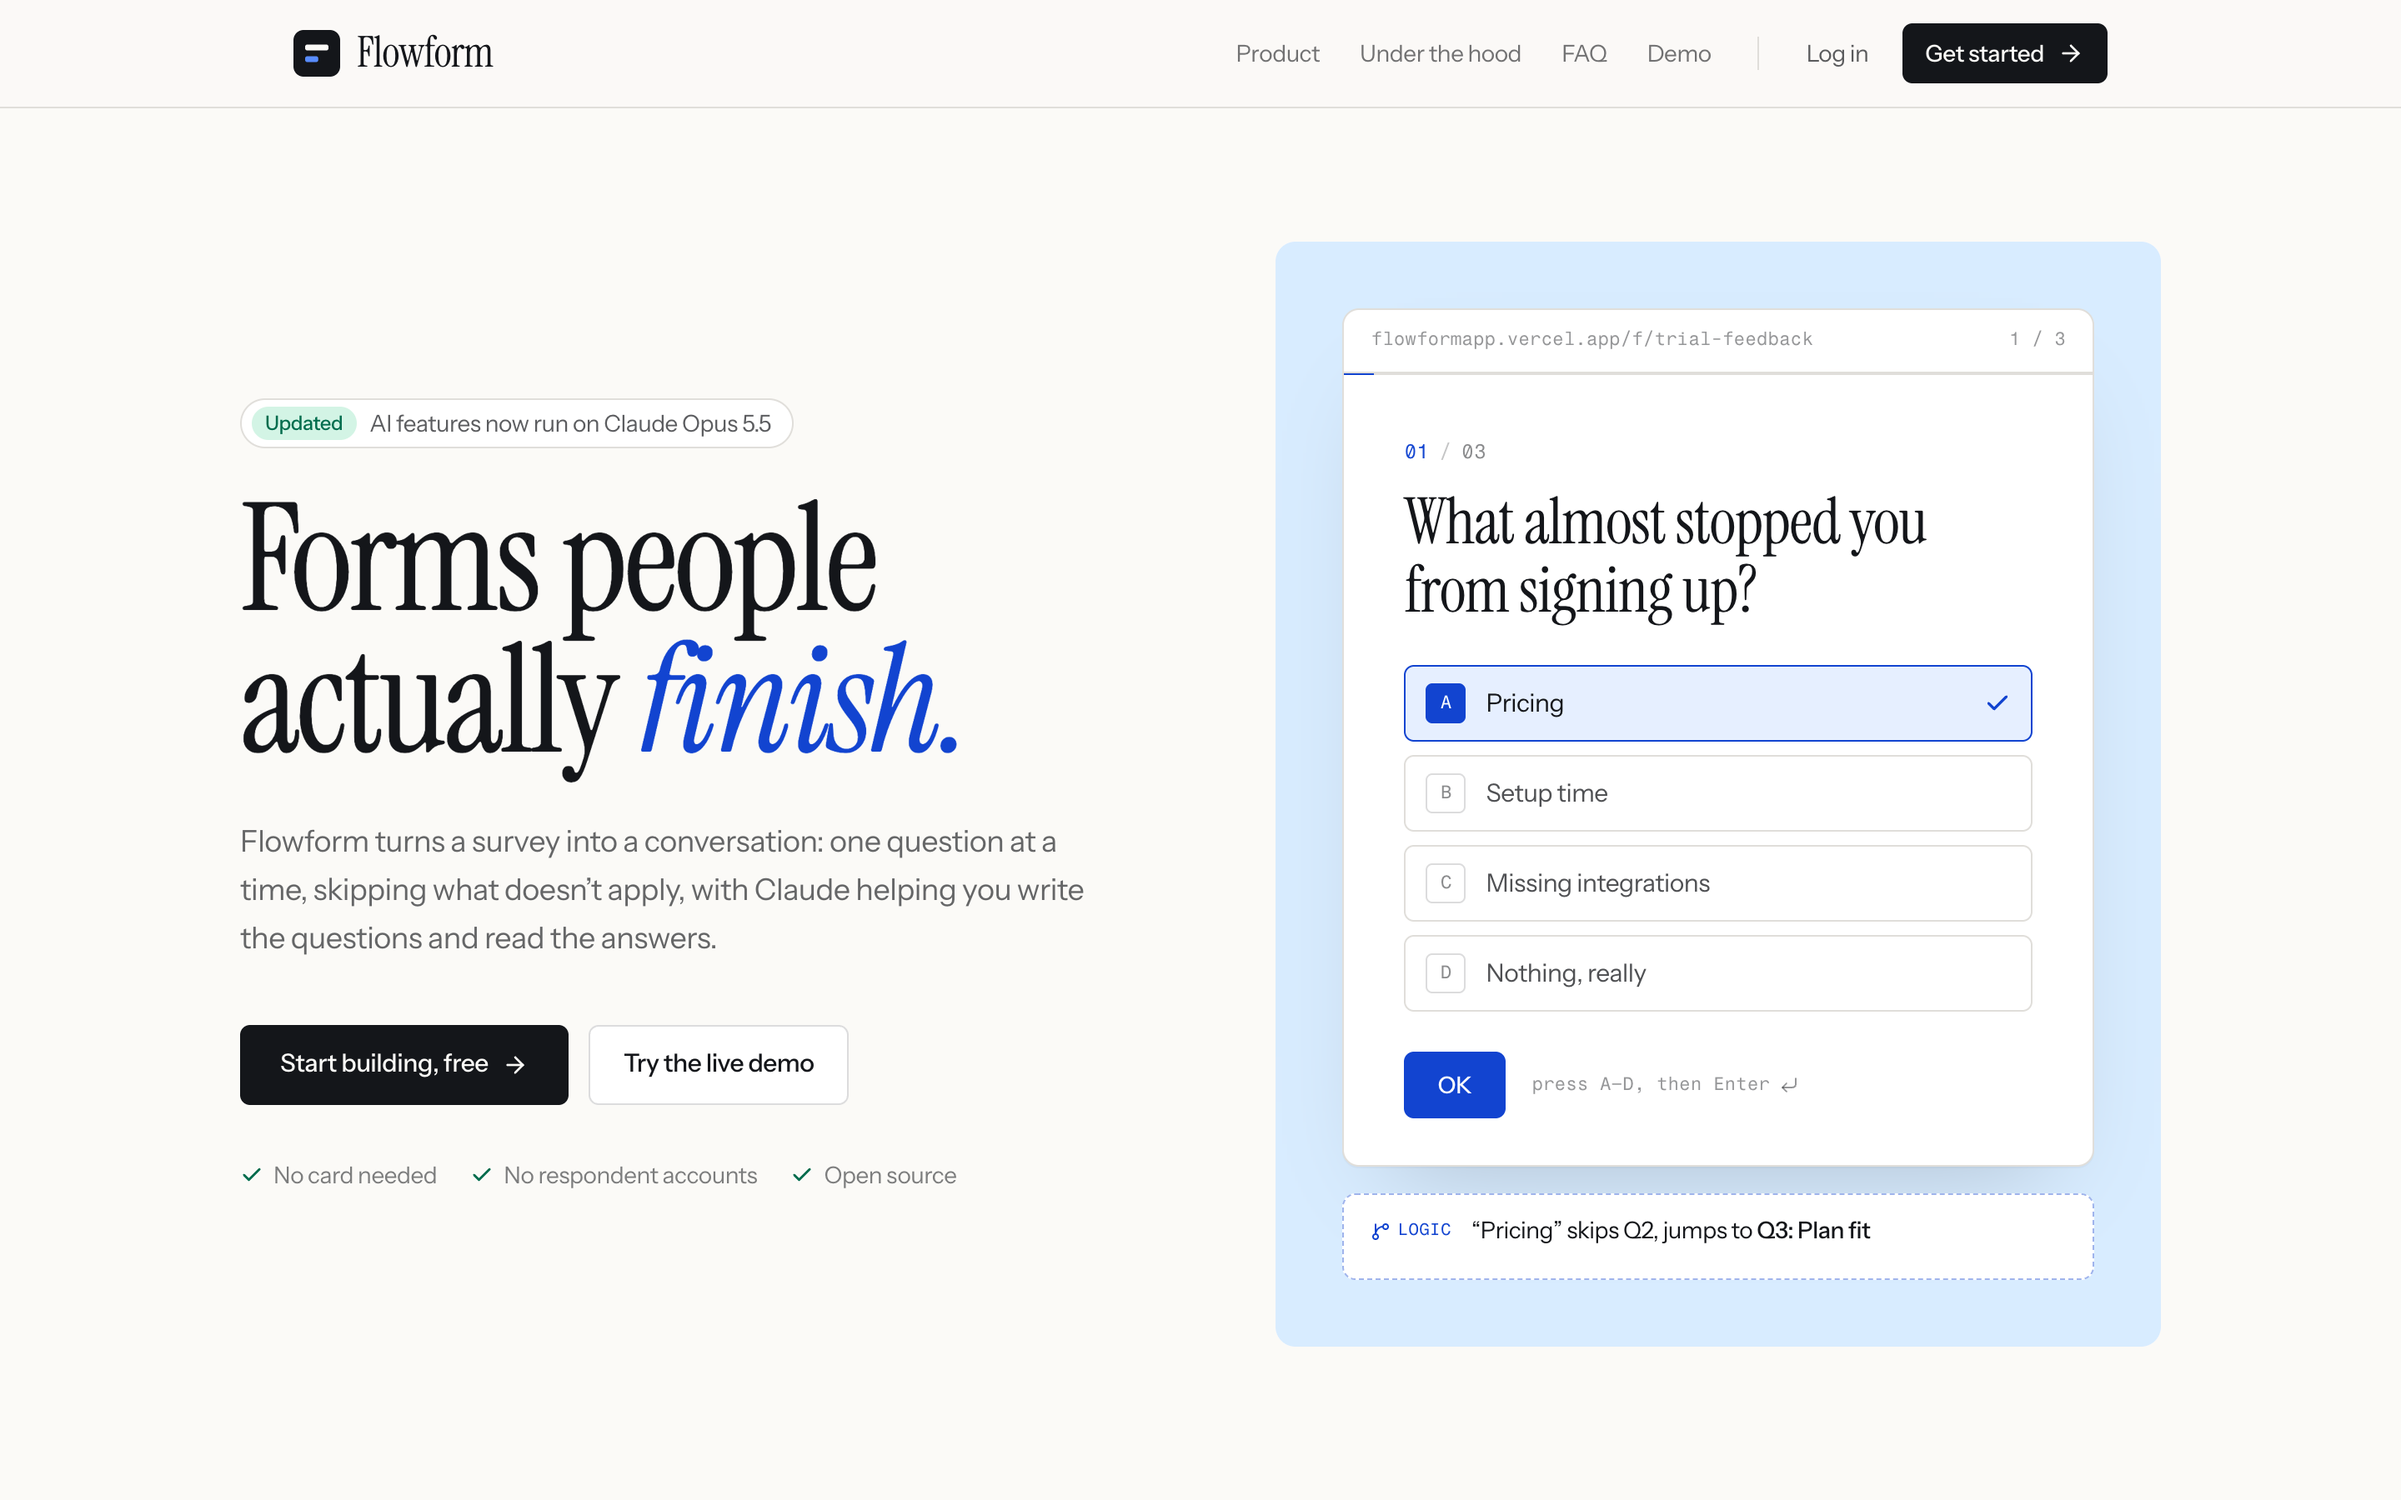
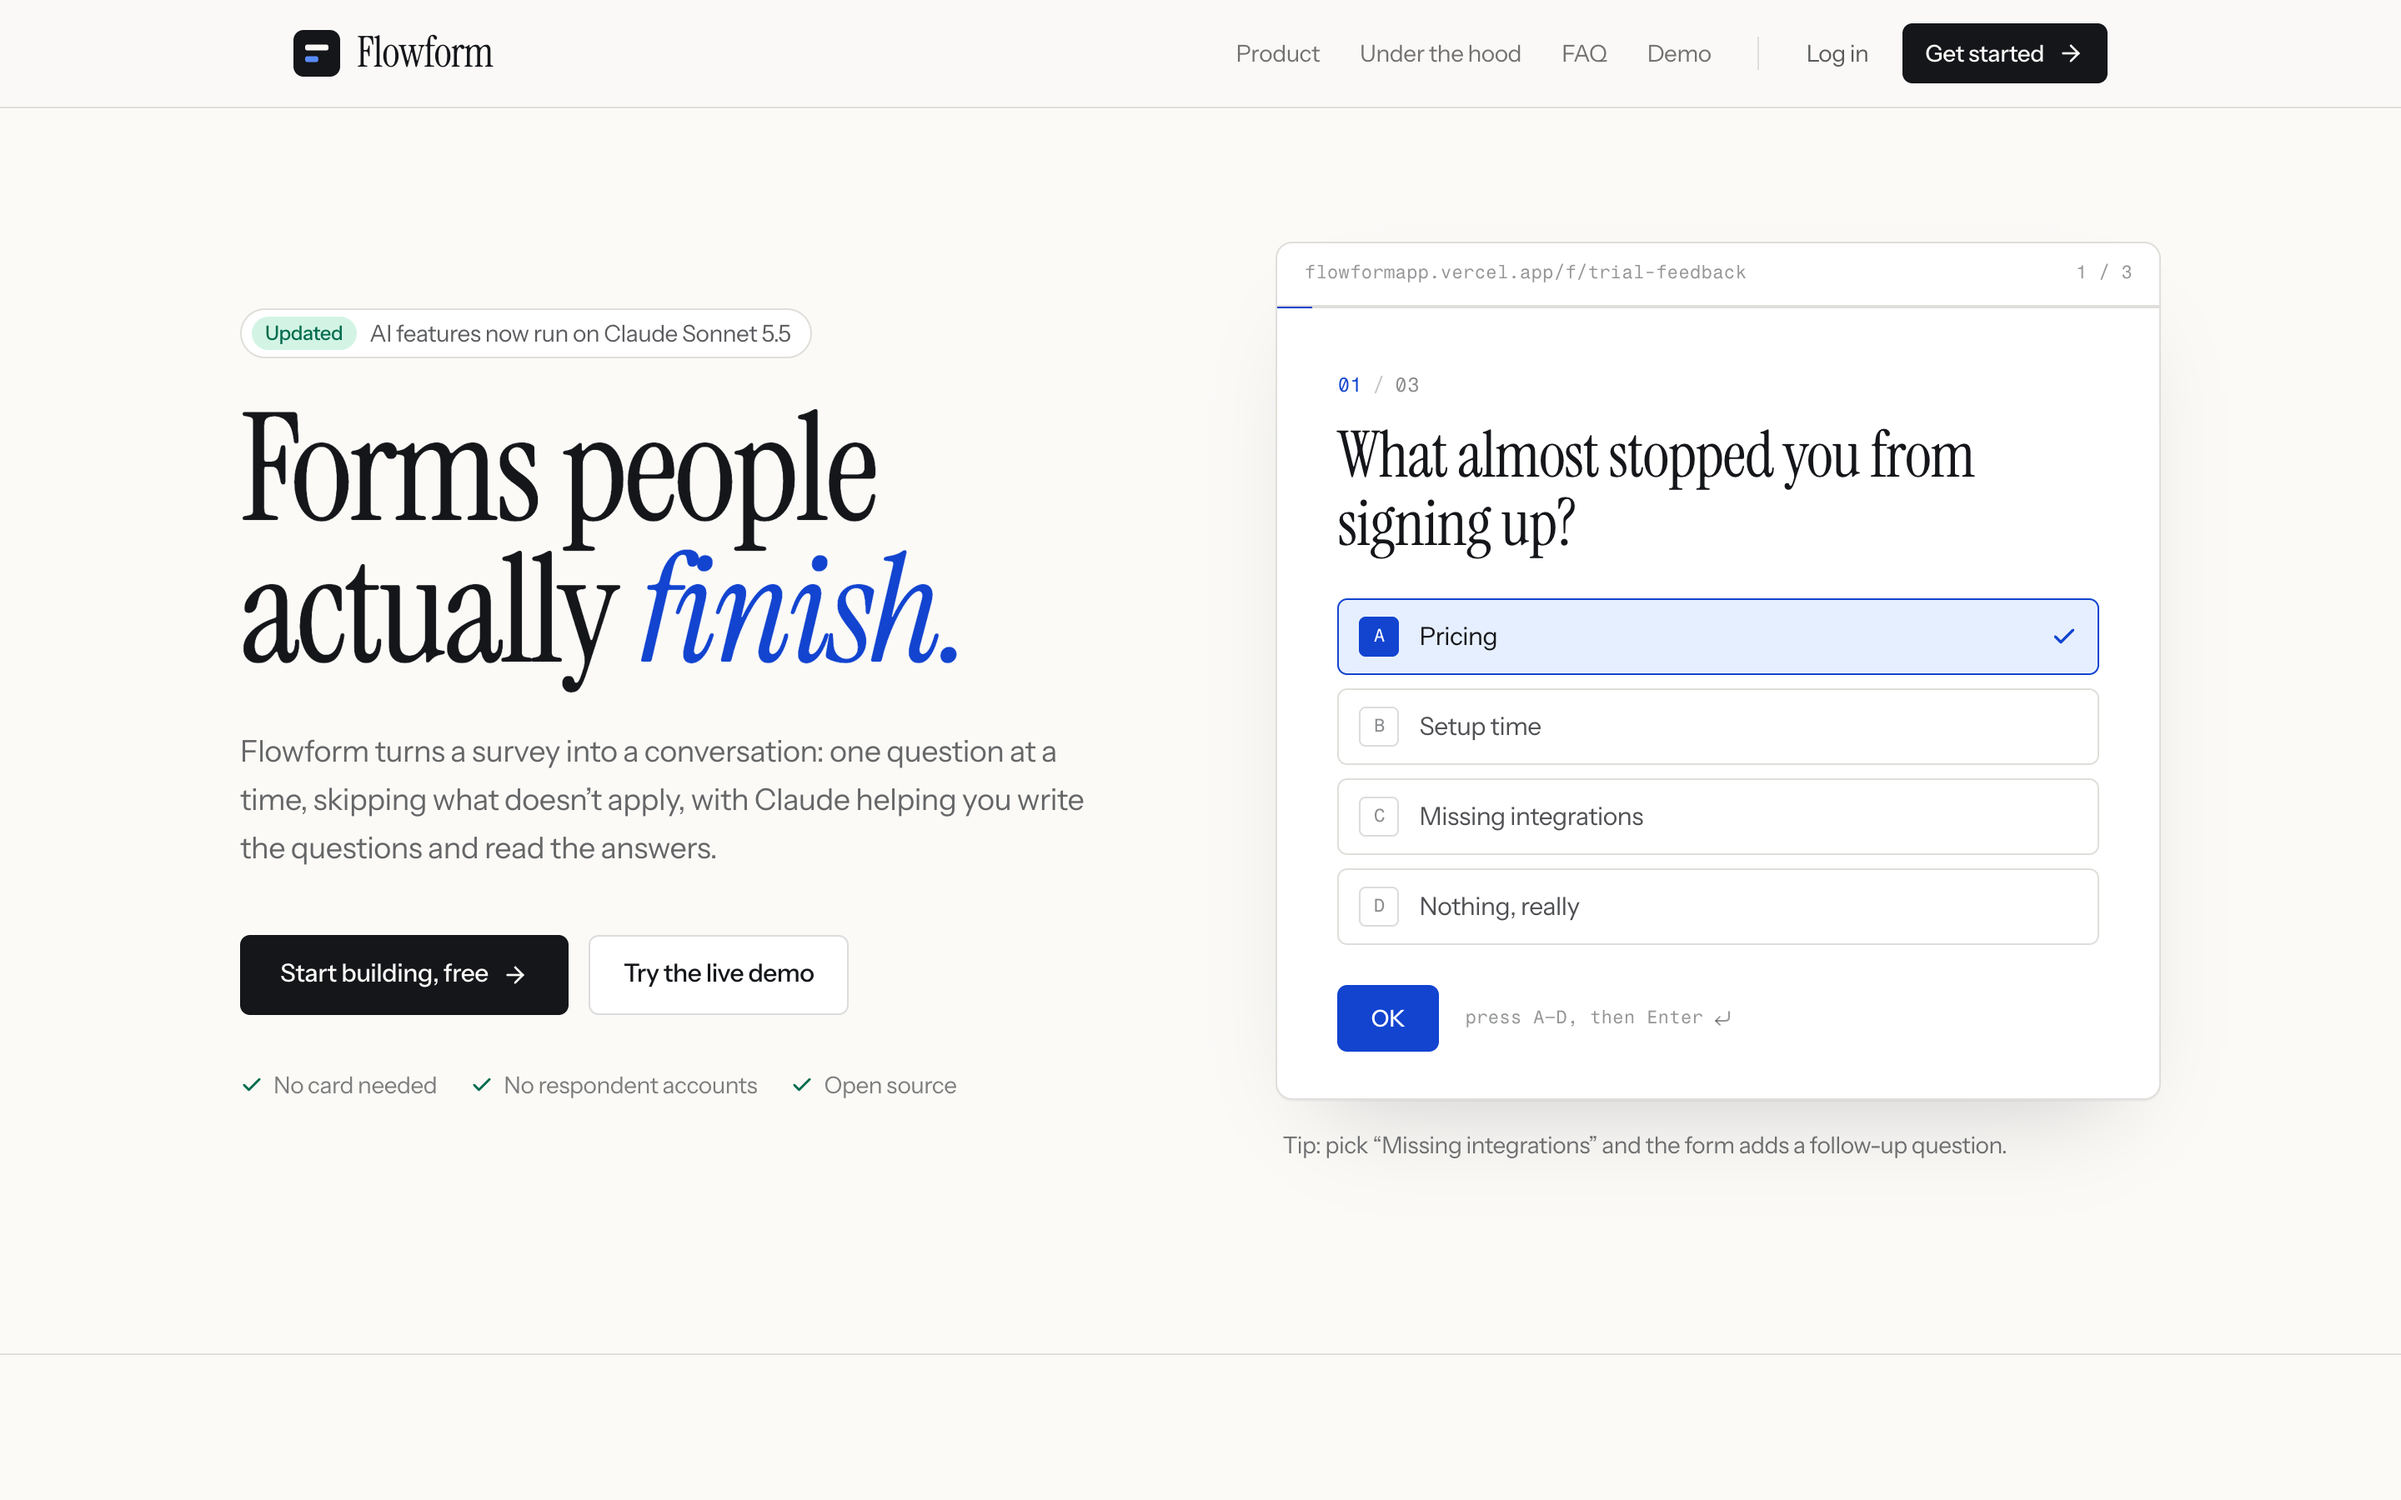
feat(ai): run question suggestions and summaries on Claude Sonnet 5.5
Switch both server functions from claude-opus-5-5 to claude-sonnet-5-5.
The request shape carries over unchanged: no explicit thinking config
(adaptive by default), explicit effort (low for suggestions, medium for
summaries), and the server-side "default" refusal fallback, which Sonnet 5.5
supports on the Claude API. Live-tested both calls: end_turn, valid JSON,
~3-4 s each.

Also make the landing hero read as a respondent's form rather than a
builder's view: drop the tinted frame around it, replace the "LOGIC" note
and "Q2 / jump rule" wording with a plain-language hint, and label the end
summary with question names ("Not asked, didn't apply").

diff --git a/src/routes/index.tsx b/src/routes/index.tsx
@@ -169,6 +169,11 @@ const HERO_STEPS: Record<HeroStepId, { n: number; title: string; options: string
   },
 };
 const HERO_TOTAL = 3;
+const HERO_SHORT: Record<HeroStepId, string> = {
+  blocker: "What almost stopped you",
+  integration: "Missing integration",
+  plan: "Plan that fits",
+};
 
 /** The one jump rule in the example form: only "Missing integrations" asks Q2. */
 function heroNext(step: HeroStepId, answer: string | undefined): HeroStepId | "done" {
@@ -240,21 +245,15 @@ function HeroForm() {
     }
   };
 
-  // The logic note narrates the jump rule for whatever is selected right now.
+  // A plain-language hint under the form: how it adapts, in respondent terms.
   let note: React.ReactNode = null;
   if (step === "blocker") {
     note =
-      picked === "Missing integrations" ? (
-        <>
-          Continues to <span className="font-medium">Q2: Integrations</span>
-        </>
-      ) : (
-        <>
-          “{picked}” skips Q2, jumps to <span className="font-medium">Q3: Plan fit</span>
-        </>
-      );
+      picked === "Missing integrations"
+        ? "You’ll get one follow-up question about integrations."
+        : "Tip: pick “Missing integrations” and the form adds a follow-up question.";
   } else if (step === "plan" && skippedQ2) {
-    note = <>Q2 was skipped by the jump rule</>;
+    note = "One question was skipped because it didn’t apply to you.";
   }
 
   return (
@@ -364,13 +363,11 @@ function HeroForm() {
                 const skipped = !history.includes(id);
                 return (
                   <li key={id} className="flex items-baseline justify-between gap-4 py-2.5">
-                    <span className={skipped ? "text-ink/35" : "text-ink/60"}>
-                      Q{HERO_STEPS[id].n}
+                    <span className={skipped ? "text-ink/40" : "text-ink/60"}>
+                      {HERO_SHORT[id]}
                     </span>
-                    <span
-                      className={`text-right ${skipped ? "font-mono text-xs text-ink/40" : "text-ink"}`}
-                    >
-                      {skipped ? "skipped by logic" : answers[id]}
+                    <span className={`text-right ${skipped ? "text-ink/40 italic" : "text-ink"}`}>
+                      {skipped ? "Not asked, didn’t apply" : answers[id]}
                     </span>
                   </li>
                 );
@@ -395,23 +392,13 @@ function HeroForm() {
         )}
       </Sheet>
 
-      {/* The note sits under the card; its slot is reserved so steps without
-          a rule don't make the layout jump. */}
+      {/* Slot reserved so steps without a hint don't make the layout jump. */}
       <figcaption
         aria-live="polite"
-        className={`mt-4 flex min-h-[3.25rem] items-start gap-3 rounded-lg border border-dashed px-4 py-3 text-sm transition-opacity duration-300 ${
-          note ? "border-brand/40 bg-white text-ink opacity-100" : "border-transparent opacity-0"
-        }`}
+        className="mt-4 min-h-[1.5rem] px-1 text-sm leading-relaxed text-ink/60 transition-opacity duration-300"
+        style={{ opacity: note ? 1 : 0 }}
       >
-        {note && (
-          <>
-            <span className="mt-0.5 inline-flex items-center gap-1 font-mono text-[10px] font-medium uppercase tracking-wide text-brand">
-              <GitBranch className="size-3" />
-              Logic
-            </span>
-            <span className="leading-snug">{note}</span>
-          </>
-        )}
+        {note}
       </figcaption>
     </figure>
   );
@@ -782,7 +769,7 @@ function Index() {
                 <span className="rounded-full bg-mint-tint px-2 py-0.5 text-xs font-medium text-mint">
                   Updated
                 </span>
-                AI features now run on Claude Opus 5.5
+                AI features now run on Claude Sonnet 5.5
               </span>
               <h1 className="mt-6 font-display text-[3.4rem] leading-[0.95] tracking-[-0.02em] text-ink sm:text-7xl lg:text-[5.6rem]">
                 Forms people actually <em className="text-brand">finish.</em>
@@ -809,9 +796,7 @@ function Index() {
                 ))}
               </ul>
             </div>
-            <Stage hue="sky" className="relative">
-              <HeroForm />
-            </Stage>
+            <HeroForm />
           </div>
         </section>
 

diff --git a/src/lib/suggest-questions.ts b/src/lib/suggest-questions.ts
@@ -55,7 +55,7 @@ export const suggestQuestions = createServerFn({ method: "POST" })
       (data.description?.trim() ? `\nDescription: ${data.description.trim()}` : "");
 
     const message = await client.beta.messages.create({
-      model: "claude-opus-5-5",
+      model: "claude-sonnet-5-5",
       // Thinking tokens count toward max_tokens, so leave room beyond the JSON.
       max_tokens: 16000,
       // Interactive and well-specified: keep thinking short for snappy suggestions.
@@ -67,8 +67,8 @@ export const suggestQuestions = createServerFn({ method: "POST" })
       messages: [{ role: "user", content: userContent }],
     });
 
-    // Opus 5.5 always thinks, so the reply can start with (empty) thinking
-    // blocks; read by block type and check why generation stopped.
+    // Sonnet 5.5 thinks adaptively by default, so the reply can start with
+    // (empty) thinking blocks; read by block type and check why it stopped.
     if (message.stop_reason === "refusal") {
       throw new Error("Claude declined this request. Try rewording it.");
     }

diff --git a/src/lib/summarize-responses.ts b/src/lib/summarize-responses.ts
@@ -126,7 +126,7 @@ export const summarizeResponses = createServerFn({ method: "POST" })
 
     const client = new Anthropic({ apiKey });
     const message = await client.beta.messages.create({
-      model: "claude-opus-5-5",
+      model: "claude-sonnet-5-5",
       // Thinking tokens count toward max_tokens, so leave room beyond the JSON.
       max_tokens: 16000,
       // Reading up to 300 answers for themes benefits from a bit more thought.
@@ -138,8 +138,8 @@ export const summarizeResponses = createServerFn({ method: "POST" })
       messages: [{ role: "user", content: userContent }],
     });
 
-    // Opus 5.5 always thinks, so the reply can start with (empty) thinking
-    // blocks; read by block type and check why generation stopped.
+    // Sonnet 5.5 thinks adaptively by default, so the reply can start with
+    // (empty) thinking blocks; read by block type and check why it stopped.
     if (message.stop_reason === "refusal") {
       throw new Error("Claude declined this request. Try rewording it.");
     }

diff --git a/README.md b/README.md
@@ -103,7 +103,7 @@ flowchart LR
 | **Frontend** | [TanStack Start](https://tanstack.com/start) (file-based routing, SSR), React 19, Tailwind CSS 4 with `oklch` design tokens, shadcn/ui on Radix primitives, dnd-kit for drag-and-drop, Recharts for analytics |
 | **Backend** | TanStack Start server functions running as Vercel serverless functions via Nitro; Zod validation on AI input and output |
 | **Database** | Supabase Postgres with row-level security on every table, 24 versioned SQL migrations, transactional RPCs for editor saves and analytics, `CHECK` constraints on JSON shapes |
-| **AI** | Anthropic Claude Opus 5.5 for question suggestions and open-text summaries, called only from server functions, with refusal fallback and Zod-validated output |
+| **AI** | Anthropic Claude Sonnet 5.5 for question suggestions and open-text summaries, called only from server functions, with refusal fallback and Zod-validated output |
 | **Auth** | Supabase Auth: email verification with branded emails, password reset, email change, 10-minute idle auto-logout |
 | **Automation** | Postgres trigger + `pg_net` posts a Slack alert on each confirmed signup (webhook URL kept in Vault); GitHub Actions runs CI; a keep-alive write runs from both GitHub Actions and Vercel Cron, and the workflow restores the project through the Management API if it was paused anyway |
 | **Hosting** | Vercel, deployed from `main`; Bun for installs and scripts |
